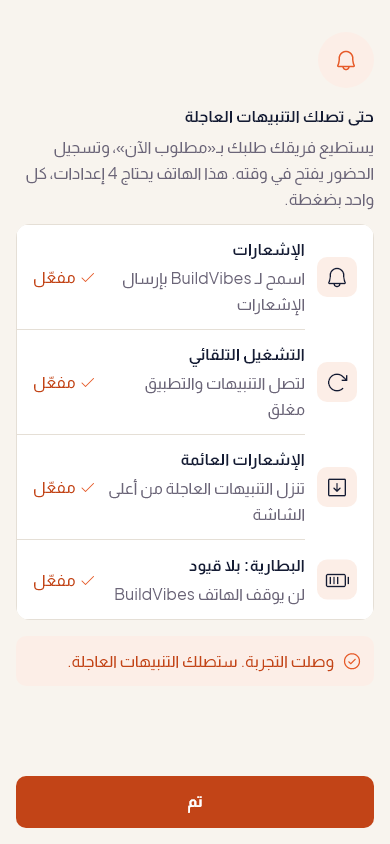
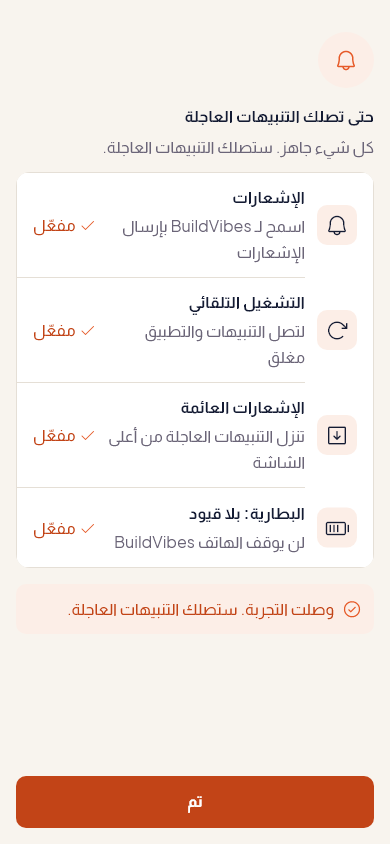
Review 114c: the alerts setup says All set when every line is on
"All set. Urgent alerts will reach you." / «كل شيء جاهز. ستصلك التنبيهات
العاجلة.» instead of "This phone needs N settings" once nothing is off,
and as soon as the last line turns on. The one-line tests now keep the
permission unasked, as the tabs no longer get to ask first. Shots: the new
PS1_all_set; PS2 (all four on) takes the new subtitle.

diff --git a/test/features/onboarding/alerts_setup_screen_test.dart b/test/features/onboarding/alerts_setup_screen_test.dart
@@ -123,6 +123,43 @@ void main() {
       expect(_key('alerts-done'), findsNothing);
     });
 
+    testWidgets('review 114c: every line already on: "All set", not the '
+        'settings it needs [$lang]', (tester) async {
+      await _open(
+        tester,
+        lang,
+        status: const AlertPhoneStatus(
+          needYouChannelOn: true,
+          batteryUnrestricted: true,
+        ),
+        stored: {
+          alertVisitedKey(AlertLine.autostart): true,
+          alertVisitedKey(AlertLine.floating): true,
+        },
+      );
+      _expectLines(['notifications', 'autostart', 'floating', 'battery'], []);
+      expect(find.text(l10n.alertsAllSet), findsOneWidget);
+      expect(find.text(l10n.alertsSub(4)), findsNothing);
+    });
+
+    testWidgets('review 114c: the last line turned on: the subtitle becomes '
+        '"All set" [$lang]', (tester) async {
+      final app = await _open(
+        tester,
+        lang,
+        makers: const ['google', 'google'],
+        permission: PushPermission.notAsked,
+        // Not asked at the tabs: the one line stays off.
+        stored: {pushAskedKey: true},
+      );
+      expect(find.text(l10n.alertsSub(1)), findsOneWidget);
+      expect(find.text(l10n.alertsAllSet), findsNothing);
+      app.push.current = PushPermission.granted;
+      await _comeBack(tester);
+      expect(find.text(l10n.alertsAllSet), findsOneWidget);
+      expect(find.text(l10n.alertsSub(1)), findsNothing);
+    });
+
     testWidgets('Samsung: Notifications and Battery; another Android and an '
         'iPhone: Notifications only [$lang]', (tester) async {
       await _open(tester, lang, makers: const ['samsung', 'samsung']);
@@ -144,6 +181,8 @@ void main() {
           makers: makers,
           platform: platform,
           permission: PushPermission.notAsked,
+          // Not asked at the tabs: the one line stays off.
+          stored: {pushAskedKey: true},
         );
         expect(find.text(l10n.alertsSub(1)), findsOneWidget);
         expect(_key('alerts-line-notifications'), findsOneWidget);

diff --git a/test_screens/r114_test.dart b/test_screens/r114_test.dart
@@ -1,5 +1,6 @@
 // Review 114, in English and Arabic at 390 × 844 in the app's fonts: PS1
-// the alerts setup on a Xiaomi (Notifications on), PS2 all four on and the
+// the alerts setup on a Xiaomi (Notifications on), and with every line on
+// already ("All set", review 114c), PS2 all four on and the
 // test arrived, PS3 asked again once over the Spaces tab; RX1 React at the
 // start, Share at the end, and the picker from the start. Run:
 //   flutter test test_screens/r114_test.dart --update-goldens
@@ -96,6 +97,23 @@ void main() {
     ) async {
       await setup(tester);
       await _snap(tester, 'PS1_setup', lang);
+    });
+
+    testWidgets('review 114c: all four on already: "All set" [$lang]', (
+      tester,
+    ) async {
+      await setup(
+        tester,
+        stored: {
+          alertVisitedKey(AlertLine.autostart): true,
+          alertVisitedKey(AlertLine.floating): true,
+        },
+        status: const AlertPhoneStatus(
+          needYouChannelOn: true,
+          batteryUnrestricted: true,
+        ),
+      );
+      await _snap(tester, 'PS1_all_set', lang);
     });
 
     testWidgets('PS2 all four on, the test arrived, Done [$lang]', (

diff --git a/lib/l10n/gen/app_localizations.dart b/lib/l10n/gen/app_localizations.dart
@@ -11780,6 +11780,12 @@ abstract class AppLocalizations {
   /// **'{n, plural, =1{Your team can call you with Need you now, and check-ins open on time. This phone needs 1 setting. It\'s a single tap.} other{Your team can call you with Need you now, and check-ins open on time. This phone needs {n} settings. Each one is a single tap.}}'**
   String alertsSub(int n);
 
+  /// Review 114c: the alerts setup's subtitle when every line this phone needs is already on.
+  ///
+  /// In en, this message translates to:
+  /// **'All set. Urgent alerts will reach you.'**
+  String get alertsAllSet;
+
   /// PS1 line 1.
   ///
   /// In en, this message translates to:

diff --git a/lib/features/onboarding/alerts_setup_screen.dart b/lib/features/onboarding/alerts_setup_screen.dart
@@ -242,7 +242,9 @@ class _AlertsSetupScreenState extends ConsumerState<AlertsSetupScreen> {
                     const SizedBox(height: BvSpace.s4),
                     if (setup != null) ...[
                       Text(
-                        l10n.alertsSub(setup.lines.length),
+                        setup.offCount == 0
+                            ? l10n.alertsAllSet
+                            : l10n.alertsSub(setup.lines.length),
                         style: type.bodySm.copyWith(
                           color: BvColors.textSecondary,
                         ),

diff --git a/lib/l10n/gen/app_localizations_ar.dart b/lib/l10n/gen/app_localizations_ar.dart
@@ -7159,6 +7159,9 @@ class AppLocalizationsAr extends AppLocalizations {
   }
 
   @override
+  String get alertsAllSet => 'كل شيء جاهز. ستصلك التنبيهات العاجلة.';
+
+  @override
   String get alertsNotifications => 'الإشعارات';
 
   @override

diff --git a/lib/l10n/gen/app_localizations_en.dart b/lib/l10n/gen/app_localizations_en.dart
@@ -7102,6 +7102,9 @@ class AppLocalizationsEn extends AppLocalizations {
   }
 
   @override
+  String get alertsAllSet => 'All set. Urgent alerts will reach you.';
+
+  @override
   String get alertsNotifications => 'Notifications';
 
   @override
